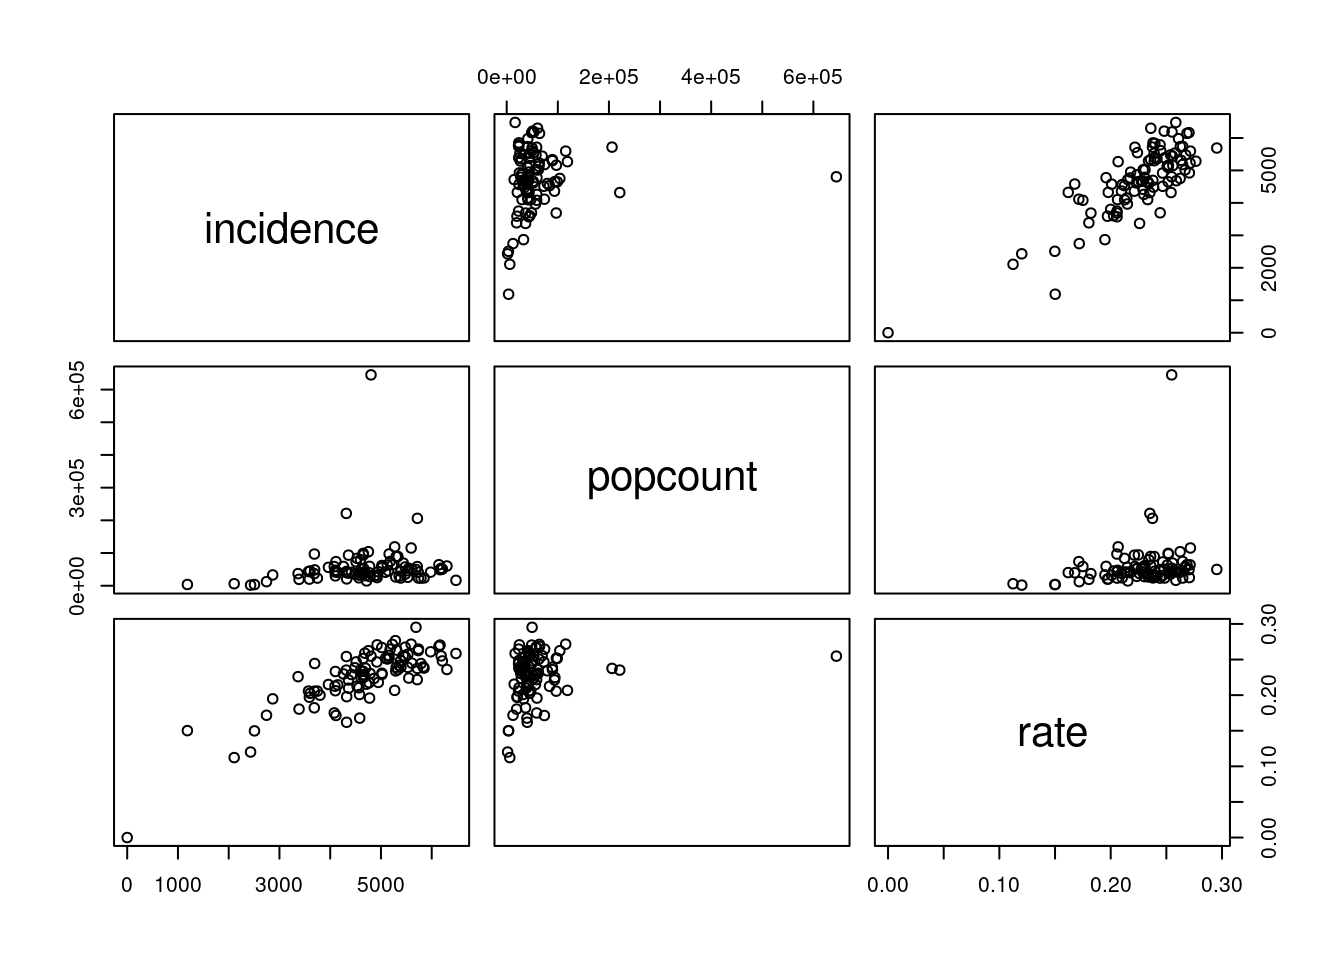
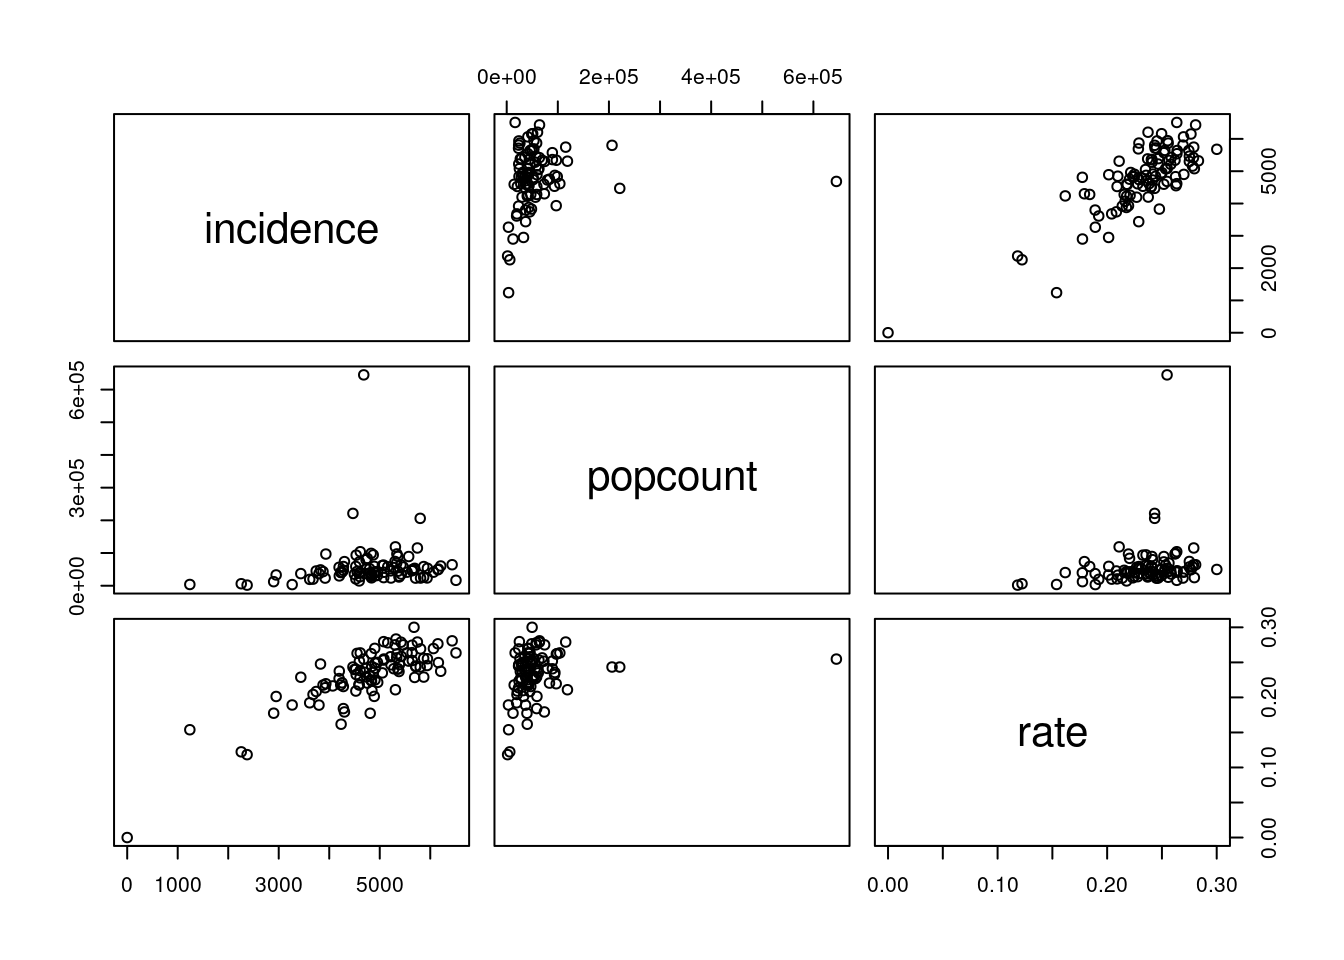
2022-01-28

diff --git a/docs/index.html b/docs/index.html
@@ -10,7 +10,7 @@
 
 
 
-<meta name="date" content="2022-01-27" />
+<meta name="date" content="2022-01-28" />
 
 <title>Covid-19 Stats for Denmark</title>
 
@@ -258,7 +258,7 @@ $(document).ready(function () {
 
 
 <h1 class="title toc-ignore">Covid-19 Stats for Denmark</h1>
-<h4 class="date">2022-01-27</h4>
+<h4 class="date">2022-01-28</h4>
 
 </div>
 
@@ -305,7 +305,7 @@ $(document).ready(function () {
 <pre class="r"><code>library(tidyverse)
 library(lubridate)</code></pre>
 <p>SSI’s data is in a zip file. We unpack this zip file into a directory of the general form <code>YYYY-MM-DD</code>. Lets set up a name for the current directory we want to grab data from</p>
-<pre class="r"><code>date &lt;- &quot;2022-01-27&quot;</code></pre>
+<pre class="r"><code>date &lt;- &quot;2022-01-28&quot;</code></pre>
 </div>
 <div id="ingesting-data" class="section level2">
 <h2>Ingesting data</h2>
@@ -347,7 +347,7 @@ library(lubridate)</code></pre>
                                       ))</code></pre>
 <pre><code>## ℹ Using &quot;&#39;,&#39;&quot; as decimal and &quot;&#39;.&#39;&quot; as grouping mark. Use `read_delim()` for more control.</code></pre>
 <pre class="r"><code>data</code></pre>
-<pre><code>## # A tibble: 6,655 × 9
+<pre><code>## # A tibble: 6,664 × 9
 ##    Region      Prøvetagningsdato Køn   `Bekræftede tilfælde`  Døde Indlæggelser
 ##    &lt;fct&gt;       &lt;date&gt;            &lt;fct&gt;                 &lt;dbl&gt; &lt;dbl&gt;        &lt;dbl&gt;
 ##  1 Sjælland    2020-02-26        M                         1     0            0
@@ -360,7 +360,7 @@ library(lubridate)</code></pre>
 ##  8 Hovedstaden 2020-03-03        F                         1     0            0
 ##  9 Hovedstaden 2020-03-03        M                         3     0            1
 ## 10 Hovedstaden 2020-03-04        M                         2     0            0
-## # … with 6,645 more rows, and 3 more variables: Kummuleret antal døde &lt;dbl&gt;,
+## # … with 6,654 more rows, and 3 more variables: Kummuleret antal døde &lt;dbl&gt;,
 ## #   Kummuleret antal bekræftede tilfælde &lt;dbl&gt;,
 ## #   Kummuleret antal indlæggelser &lt;dbl&gt;</code></pre>
 <p>We certainly don’t want to work with danish-named columns. Rather, we want small descriptive names which are easy to type. We send our dataset through a <code>rename</code> pass for this.</p>
@@ -375,7 +375,7 @@ library(lubridate)</code></pre>
 # Cut the cumulative columns away
 data &lt;- data %&gt;% select(region, date, gender, cases, deaths, hospitalizations)
 data</code></pre>
-<pre><code>## # A tibble: 6,655 × 6
+<pre><code>## # A tibble: 6,664 × 6
 ##    region      date       gender cases deaths hospitalizations
 ##    &lt;fct&gt;       &lt;date&gt;     &lt;fct&gt;  &lt;dbl&gt;  &lt;dbl&gt;            &lt;dbl&gt;
 ##  1 Sjælland    2020-02-26 M          1      0                0
@@ -388,7 +388,7 @@ data</code></pre>
 ##  8 Hovedstaden 2020-03-03 F          1      0                0
 ##  9 Hovedstaden 2020-03-03 M          3      0                1
 ## 10 Hovedstaden 2020-03-04 M          2      0                0
-## # … with 6,645 more rows</code></pre>
+## # … with 6,654 more rows</code></pre>
 <p>Provide a low cut-off. We are interested in the recent period with Omicron, rather than the full duration of Covid-19.</p>
 <pre class="r"><code>lo_cutoff &lt;- &#39;2021-09-01&#39;</code></pre>
 <p>The high end of that cutoff, we set to two days before the maximal date in our data set</p>
@@ -402,7 +402,7 @@ data</code></pre>
 # Put this into the summary
 summary &lt;- data
 summary</code></pre>
-<pre><code>## # A tibble: 1,460 × 6
+<pre><code>## # A tibble: 1,470 × 6
 ##    region      date       gender cases deaths hospitalizations
 ##    &lt;fct&gt;       &lt;date&gt;     &lt;fct&gt;  &lt;dbl&gt;  &lt;dbl&gt;            &lt;dbl&gt;
 ##  1 Hovedstaden 2021-09-01 F        210      0                7
@@ -415,7 +415,7 @@ summary</code></pre>
 ##  8 Nordjylland 2021-09-01 M         16      1                2
 ##  9 Sjælland    2021-09-01 M         37      0                3
 ## 10 Syddanmark  2021-09-01 M         41      0                1
-## # … with 1,450 more rows</code></pre>
+## # … with 1,460 more rows</code></pre>
 </div>
 <div id="weekly-key-figures-split-by-age" class="section level3">
 <h3>Weekly key figures split by age</h3>
@@ -506,15 +506,15 @@ data</code></pre>
 ##     lau1 name      `Bekræftede tilf… Incidens cases incidence tested tested_100k
 ##    &lt;dbl&gt; &lt;fct&gt;                 &lt;dbl&gt;    &lt;dbl&gt; &lt;dbl&gt;     &lt;dbl&gt;  &lt;dbl&gt;       &lt;dbl&gt;
 ##  1   411 &quot;&quot;                        0       NA     0         0     87       95604
-##  2   101 &quot;Københa…            235341    36700 30809      4804 650423      101000
-##  3   147 &quot;Frederi…             35440    34344  4905      4753 110693      107000
-##  4   151 &quot;Balleru…             16751    34059  2759      5610  49665      101000
-##  5   153 &quot;Brøndby&quot;             13804    38734  1953      5480  35831      101000
-##  6   155 &quot;Dragør&quot;               4763    32605   689      4717  14427       98761
-##  7   157 &quot;Gentoft…             24418    33029  3830      5181  75243      102000
-##  8   159 &quot;Gladsax…             23884    34540  3761      5439  71298      103000
-##  9   161 &quot;Glostru…              8473    36182  1262      5389  24171      103000
-## 10   163 &quot;Herlev&quot;              10899    37867  1542      5358  29521      103000
+##  2   101 &quot;Københa…            239966    37421 30030      4683 650873      101000
+##  3   147 &quot;Frederi…             36131    35014  4761      4614 110773      107000
+##  4   151 &quot;Balleru…             17199    34969  2776      5644  49701      101000
+##  5   153 &quot;Brøndby&quot;             14075    39494  1934      5427  35866      101000
+##  6   155 &quot;Dragør&quot;               4848    33187   671      4593  14435       98816
+##  7   157 &quot;Gentoft…             25197    34083  3920      5302  75303      102000
+##  8   159 &quot;Gladsax…             24561    35519  3689      5335  71381      103000
+##  9   161 &quot;Glostru…              8637    36882  1223      5222  24194      103000
+## 10   163 &quot;Herlev&quot;              11152    38746  1551      5389  29535      103000
 ## # … with 89 more rows, and 3 more variables: tested_1w &lt;dbl&gt;,
 ## #   tested_100k_1w &lt;dbl&gt;, population &lt;dbl&gt;</code></pre>
 <pre class="r"><code>muncipalities &lt;- data</code></pre>
@@ -674,21 +674,21 @@ muncipalities$incidence_type &lt;- ifelse(muncipalities$incidence_z &lt; 0, &quo
 muncipalities$rate_z &lt;- round(muncipalities$rate - mean(muncipalities$rate), 5)
 muncipalities$rate_type &lt;- ifelse(muncipalities$rate_z &lt; 0, &quot;Below mean&quot;, &quot;Above mean&quot;)
 muncipalities$rate</code></pre>
-<pre><code>##  [1] 0.0000000 0.2547820 0.2623837 0.2448744 0.2538012 0.2153798 0.2645576
-##  [8] 0.2554680 0.2484741 0.2416170 0.2302988 0.2550846 0.2396925 0.2668576
-## [15] 0.2625457 0.2443472 0.2178904 0.2584951 0.2609201 0.2390285 0.2517449
-## [22] 0.2507214 0.2239860 0.2706432 0.2673902 0.2394592 0.2575387 0.2480700
-## [29] 0.2308095 0.2465951 0.2358533 0.2379812 0.2144566 0.1948133 0.2467308
-## [36] 0.2334736 0.2444475 0.2384709 0.2342007 0.2646481 0.2332196 0.2234556
-## [43] 0.1618735 0.2124187 0.2360376 0.2558446 0.1677330 0.2174464 0.2289951
-## [50] 0.2275771 0.2103647 0.2008752 0.2375467 0.1958741 0.2632282 0.1717635
-## [57] 0.1122900 0.2291804 0.2339754 0.1713817 0.1822336 0.2716101 0.1498258
-## [64] 0.2953118 0.2589657 0.1750110 0.2233832 0.2248145 0.2213052 0.2066953
-## [71] 0.2391205 0.2217870 0.1803954 0.1977974 0.2542258 0.2259589 0.2703212
-## [78] 0.2057089 0.2516164 0.2518571 0.1501706 0.2685066 0.2765052 0.2125466
-## [85] 0.2149686 0.2061966 0.1970943 0.2025981 0.2056975 0.2055821 0.2335138
-## [92] 0.2297607 0.1999420 0.1201117 0.2378906 0.2288106 0.2097038 0.2351693
-## [99] 0.2713134</code></pre>
+<pre><code>##  [1] 0.0000000 0.2546966 0.2635337 0.2526392 0.2585216 0.2177158 0.2750298
+##  [8] 0.2564120 0.2465229 0.2468173 0.2278686 0.2551936 0.2437158 0.2779493
+## [15] 0.2636730 0.2448602 0.2214997 0.2635468 0.2697283 0.2556962 0.2548182
+## [22] 0.2532814 0.2284916 0.2795987 0.2750176 0.2403885 0.2638960 0.2497003
+## [29] 0.2350136 0.2499597 0.2408814 0.2455225 0.2178007 0.2013339 0.2517114
+## [36] 0.2358185 0.2476535 0.2398479 0.2413771 0.2692232 0.2375024 0.2247392
+## [43] 0.1617464 0.2204593 0.2373086 0.2580363 0.1773546 0.2249392 0.2382516
+## [50] 0.2312203 0.2234411 0.2097100 0.2433784 0.2014649 0.2745452 0.1774676
+## [57] 0.1223022 0.2409320 0.2369770 0.1792464 0.1890392 0.2790316 0.1891892
+## [64] 0.3000853 0.2699974 0.1840599 0.2291432 0.2355291 0.2326360 0.2109519
+## [71] 0.2518011 0.2290137 0.1923182 0.2090747 0.2628367 0.2288136 0.2765057
+## [78] 0.2137834 0.2624629 0.2619204 0.1538462 0.2807601 0.2833153 0.2209245
+## [85] 0.2268786 0.2155477 0.2041551 0.2084106 0.2175727 0.2194897 0.2441131
+## [92] 0.2403178 0.2164103 0.1183099 0.2490073 0.2416322 0.2183951 0.2433406
+## [99] 0.2787903</code></pre>
 <pre class="r"><code>ggplot(muncipalities %&gt;% mutate(name = fct_reorder(name, rate)), aes(x=name, y=rate)) +
   geom_bar(stat=&#39;identity&#39;, aes(fill=rate_type), width=.5)  +
   scale_colour_brewer(palette=&quot;Set2&quot;) +
@@ -716,7 +716,7 @@ muncipalities$rate</code></pre>
 popcount &lt;- read_data_2(&quot;./data/DS/2022121185617360647690FOLK1AM68563293012.csv&quot;)</code></pre>
 <pre><code>## ℹ Using &quot;&#39;,&#39;&quot; as decimal and &quot;&#39;.&#39;&quot; as grouping mark. Use `read_delim()` for more control.</code></pre>
 <pre><code>## Rows: 103 Columns: 4</code></pre>
-<pre><code>## ── Column specification ─────────────────────────────────────────────────────────────────────────
+<pre><code>## ── Column specification ────────────────────────────────────────────────────────
 ## Delimiter: &quot;;&quot;
 ## chr (3): X1, X2, X3
 ## dbl (1): X4</code></pre>
@@ -748,15 +748,15 @@ popcount</code></pre>
 ##    name            incidence popcount
 ##    &lt;chr&gt;               &lt;dbl&gt;    &lt;dbl&gt;
 ##  1 &quot;&quot;                      0       NA
-##  2 &quot;København&quot;          4804   644987
-##  3 &quot;Frederiksberg&quot;      4753   103963
-##  4 &quot;Ballerup&quot;           5610    49228
-##  5 &quot;Brøndby&quot;            5480    35535
-##  6 &quot;Dragør&quot;             4717    14602
-##  7 &quot;Gentofte&quot;           5181    74154
-##  8 &quot;Gladsaxe&quot;           5439    69321
-##  9 &quot;Glostrup&quot;           5389    23519
-## 10 &quot;Herlev&quot;             5358    28861
+##  2 &quot;København&quot;          4683   644987
+##  3 &quot;Frederiksberg&quot;      4614   103963
+##  4 &quot;Ballerup&quot;           5644    49228
+##  5 &quot;Brøndby&quot;            5427    35535
+##  6 &quot;Dragør&quot;             4593    14602
+##  7 &quot;Gentofte&quot;           5302    74154
+##  8 &quot;Gladsaxe&quot;           5335    69321
+##  9 &quot;Glostrup&quot;           5222    23519
+## 10 &quot;Herlev&quot;             5389    28861
 ## # … with 89 more rows</code></pre>
 <p>Now, test correlation via Pearson:</p>
 <pre class="r"><code>plot(muncipalities$incidence, muncipalities$popcount)</code></pre>
@@ -766,13 +766,13 @@ popcount</code></pre>
 ##  Pearson&#39;s product-moment correlation
 ## 
 ## data:  muncipalities$incidence and muncipalities$popcount
-## t = 1.2962, df = 92, p-value = 0.1982
+## t = 1.1539, df = 92, p-value = 0.2515
 ## alternative hypothesis: true correlation is not equal to 0
 ## 95 percent confidence interval:
-##  -0.07061272  0.32764671
+##  -0.0852416  0.3144455
 ## sample estimates:
 ##       cor 
-## 0.1339203</code></pre>
+## 0.1194382</code></pre>
 <p>Clearly, this argues there are no strong connection between population count, and the incidence in a given muncipality.</p>
 <p>Analyzing the rate shows there’s a connection between it and incidence, but this is more expected:</p>
 <pre class="r"><code>pairs(muncipalities %&gt;% select(incidence,popcount,rate))</code></pre>
@@ -782,13 +782,20 @@ popcount</code></pre>
 ##  Pearson&#39;s product-moment correlation
 ## 
 ## data:  muncipalities$incidence and muncipalities$rate
-## t = 14.233, df = 97, p-value &lt; 2.2e-16
+## t = 13.996, df = 97, p-value &lt; 2.2e-16
 ## alternative hypothesis: true correlation is not equal to 0
 ## 95 percent confidence interval:
-##  0.7460037 0.8773080
+##  0.7398504 0.8741063
 ## sample estimates:
-##       cor 
-## 0.8223135</code></pre>
+##      cor 
+## 0.817816</code></pre>
+<p>Summarize:</p>
+<pre class="r"><code>summary(muncipalities$rate)</code></pre>
+<pre><code>##    Min. 1st Qu.  Median    Mean 3rd Qu.    Max. 
+##  0.0000  0.2181  0.2403  0.2326  0.2554  0.3001</code></pre>
+<pre class="r"><code>d &lt;- density(muncipalities$rate)
+plot(d)</code></pre>
+<p><img src="index_files/figure-html/muncipality-summary-1.png" width="672" /></p>
 </div>
 </div>
 
